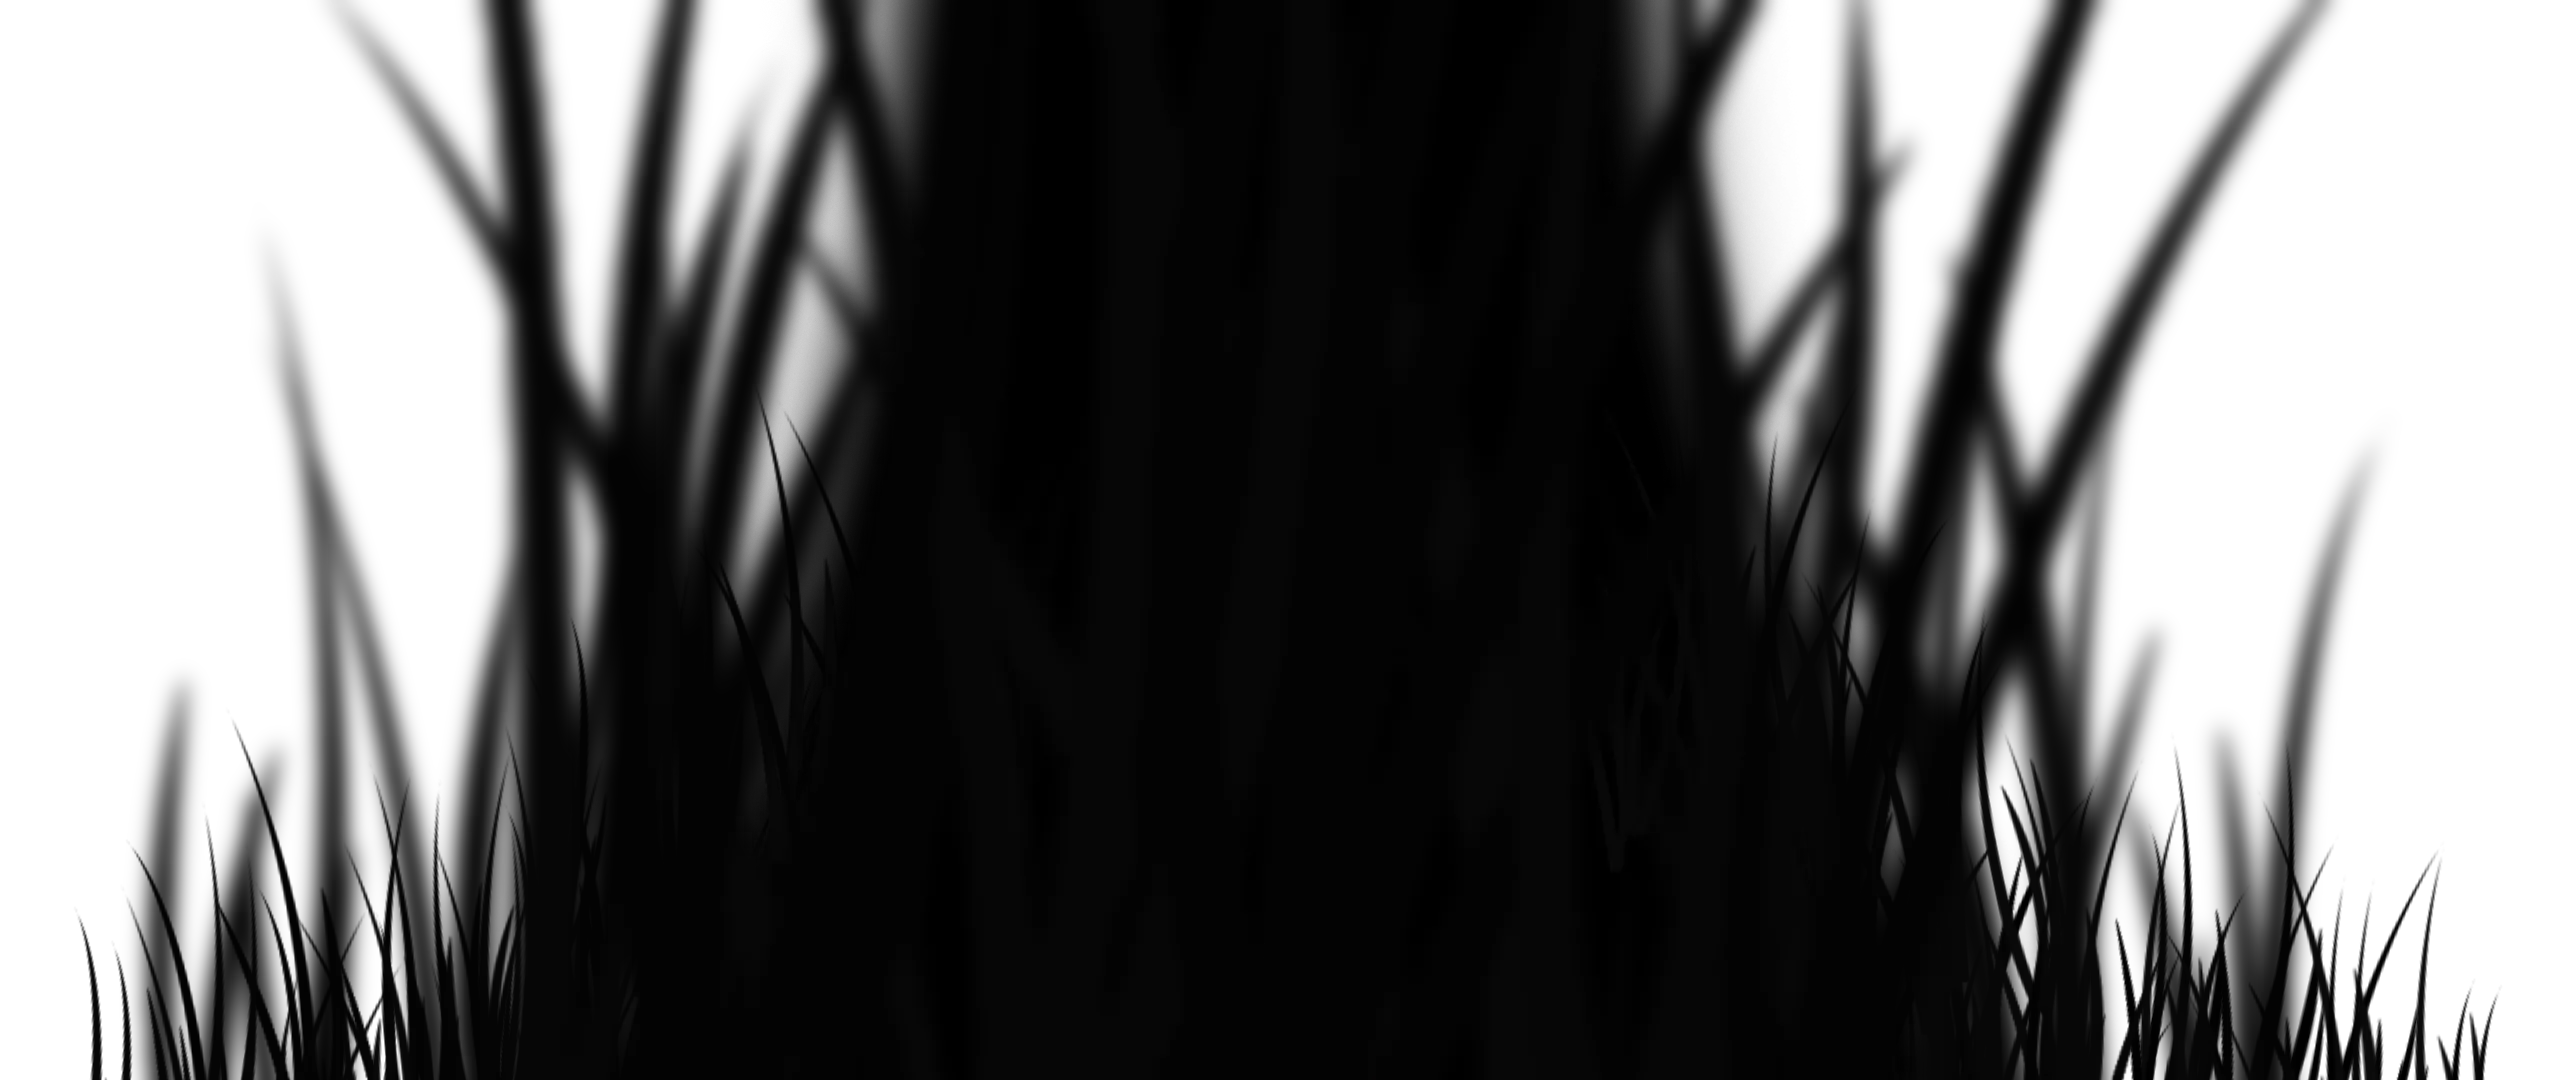
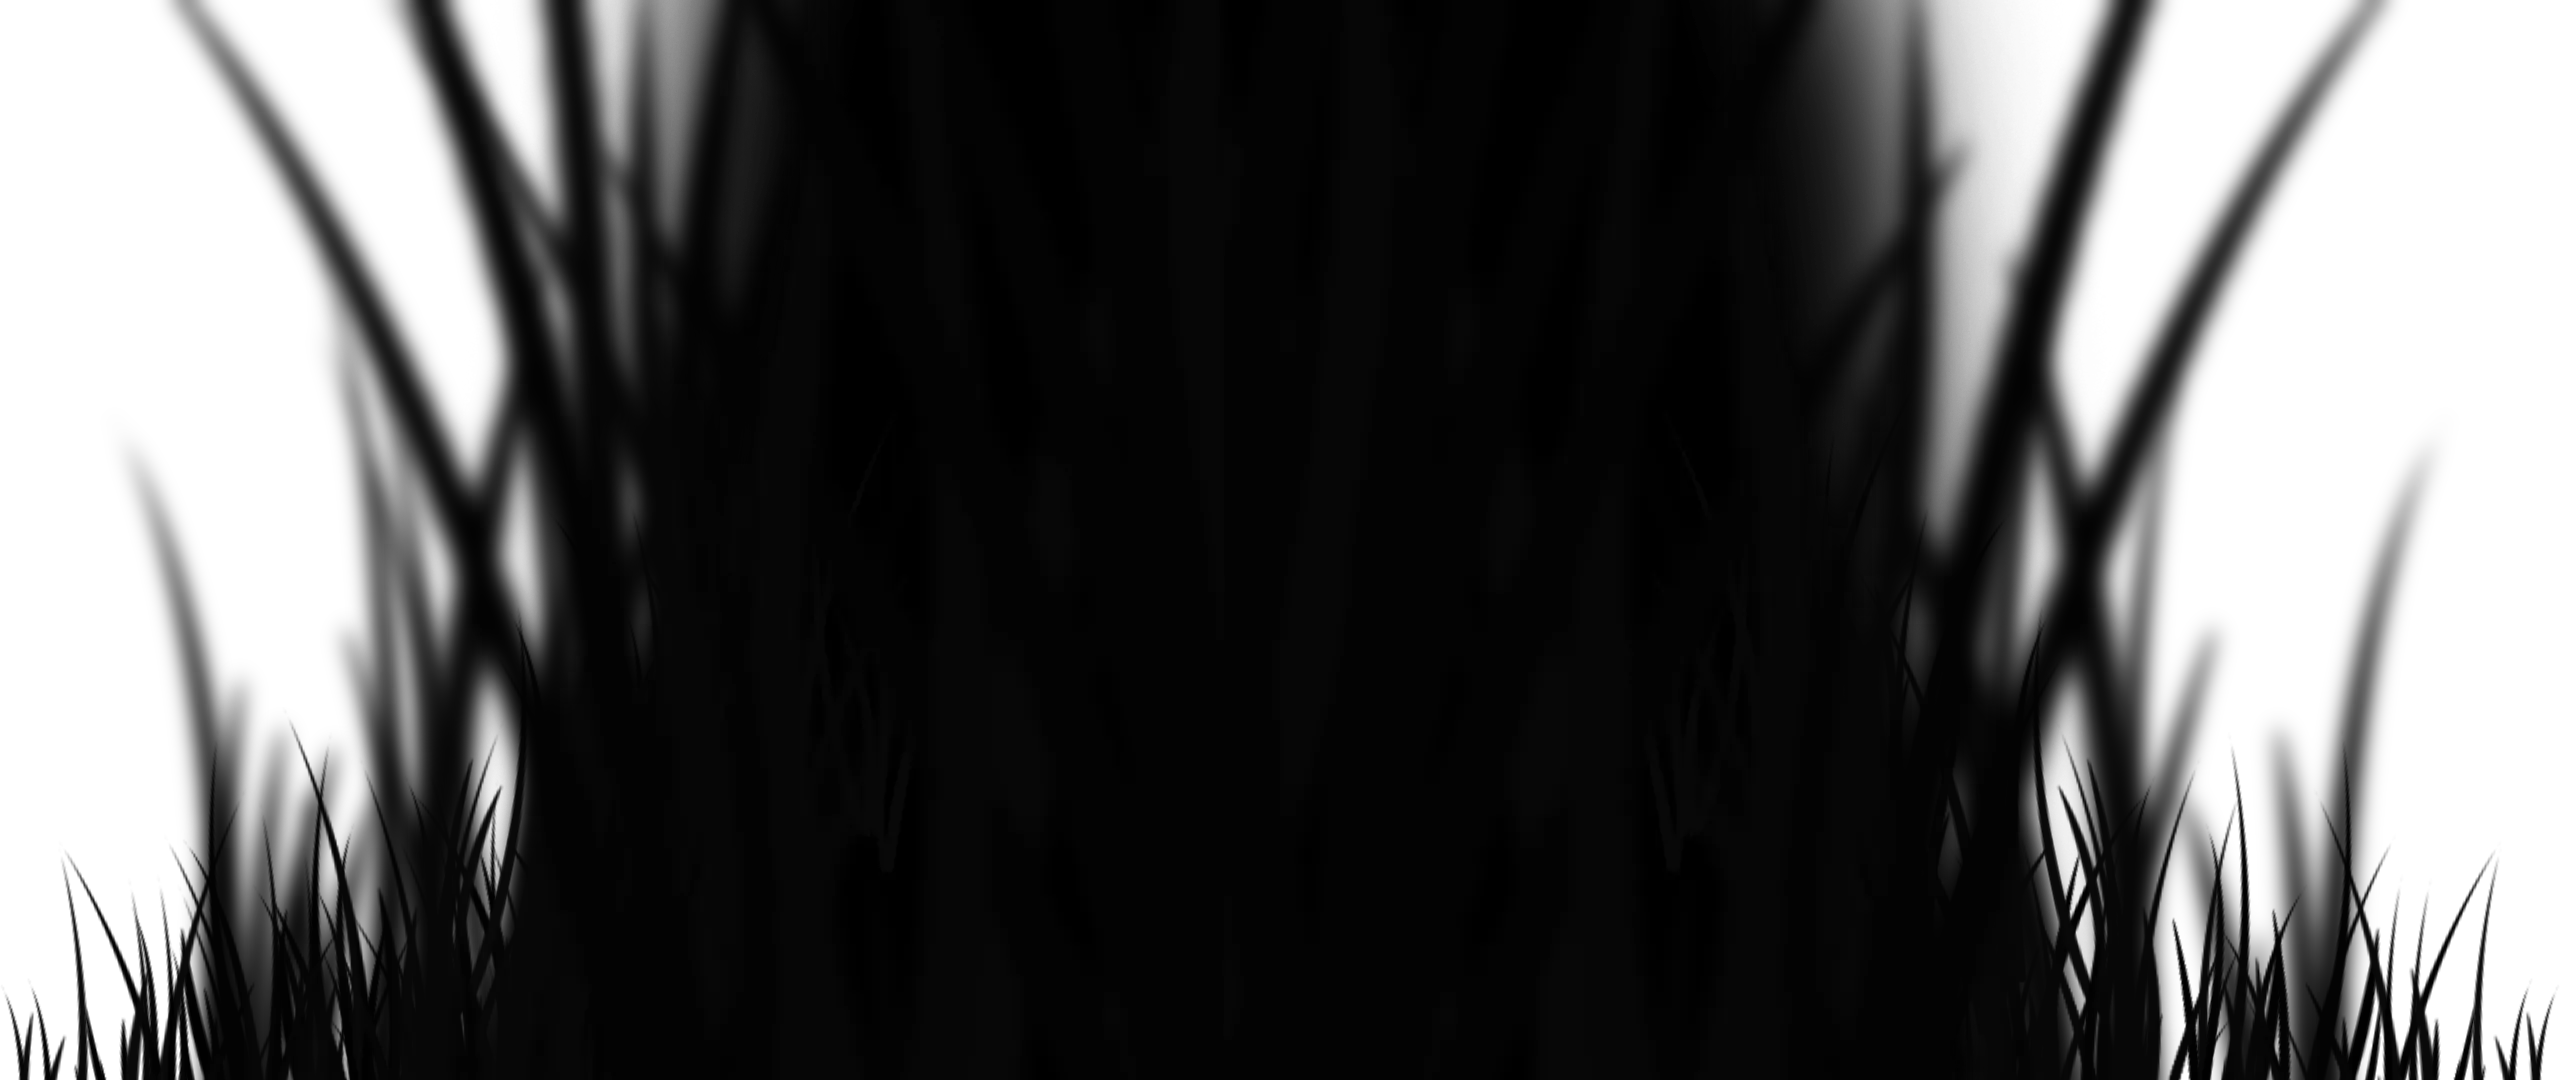
transitions

diff --git a/src/views/scenes/hooks/useSceneController.jsx b/src/views/scenes/hooks/useSceneController.jsx
@@ -46,7 +46,7 @@ const useSceneController = ({
           ? 'power2.in'
           : CustomEase.create(
               'custom',
-              'M0,0 C0.039,0.077 0.109,0.285 0.223,0.458 0.281,0.547 0.569,0.609 0.714,0.7 0.793,0.749 0.889,1.014 1,1 '
+              'M0,0 C0.039,0.077 0.109,0.285 0.223,0.458 0.281,0.547 0.523,0.609 0.668,0.7 0.747,0.749 0.889,1.014 1,1 '
             ),
         //  CustomEase.create(
         //     'custom',
@@ -64,7 +64,11 @@ const useSceneController = ({
           //   'custom',
           //   'M0,0 C0.022,0.077 0.212,0.401 0.421,0.624 0.591,0.806 0.83,0.908 1,1 '
           // ),
-          ease: 'power3.out',
+          // ease: 'power3.out',
+          ease: CustomEase.create(
+            'custom',
+            'M0,0 C0.083,0.294 0.094,0.556 0.361,0.746 0.491,0.839 0.752,1 1,1 '
+          ),
           onStart: () => {
             gsap.set(track, { willChange: 'auto' });
             if (setScrolling) setScrolling(true);